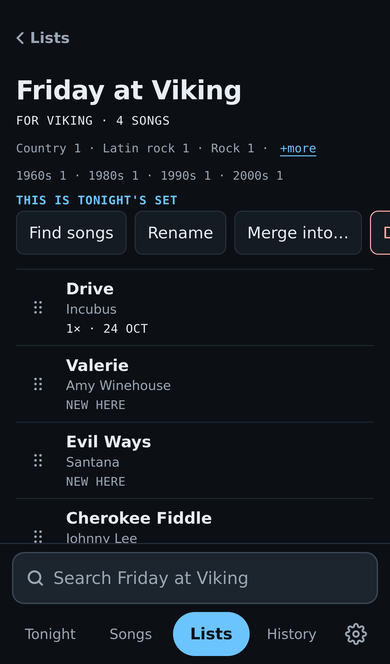
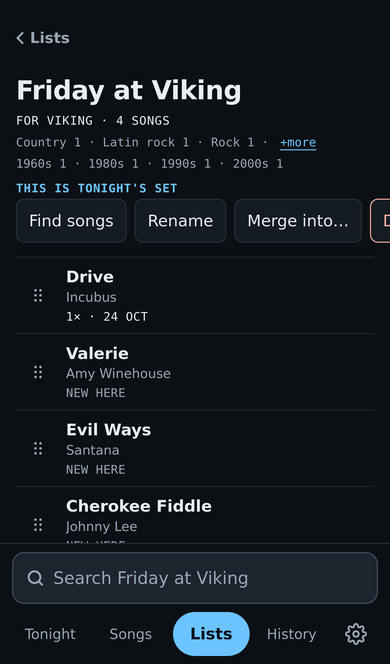
The folded genre and decade lines sit at text height, as tight as the label line above them: each “+more” keeps its 44 px box by reaching away from the other line, the genre link up over the label line and the decade link down over the “in tonight’s set” line, so the boxes never meet and neither lin

diff --git a/css/app.css b/css/app.css
@@ -1679,21 +1679,32 @@ body[data-screen="kj"] main { padding: 0; max-width: none; }
    them back). While a line has one, it makes room for the target above and
    below, so the two lines' targets never overlap. */
 .list-head .list-mix.folds { padding: 14px 0; overflow: visible; }
-/* Folded, a mix line is one line: the counts cut off with an ellipsis and
-   "+more" sits at the end, its 44 px box centred on a 30 px line, so the two
-   lines' boxes meet only in the gap between the lines, under neither text.
-   Unfolded it wraps. */
+/* Folded, a mix line is one line at text height: the counts cut off with an
+   ellipsis and "+more" sits at the end. Its 44 px box cannot be centred on
+   an 18 px line without meeting the other line's box, so the genre line's
+   box reaches up over the label line and the decade line's reaches down over
+   the "in tonight's set" line, neither of which is tappable; the text of
+   each stays on its own line. (A 44 px, then a 30 px, line read as a blank
+   line under it, 2026-11-16.) Unfolded a line wraps. */
 .list-head .list-mix.folds:not(.open) {
   display: flex;
-  align-items: center;
-  min-height: 30px; /* near text height: a 44 px line read as a blank line under it (2026-11-16) */
+  align-items: flex-start;
   padding: 0;
+  line-height: 18px; /* fixed, so the link's reach below can be exact */
   white-space: nowrap;
-  overflow: visible; /* the counts clip inside .mix-text; the 44 px link box may stand above and below the line */
+  overflow: visible; /* the counts clip inside .mix-text; the link box stands outside the line */
 }
 .list-head .list-mix.folds:not(.open) .mix-text { flex: 0 1 auto; min-width: 0; overflow: hidden; text-overflow: ellipsis; } /* +more follows the text, which gives way when long */
 .list-head .list-mix.folds:not(.open) .mix-sep { flex: none; white-space: pre; }
-.list-head .list-mix.folds:not(.open) .mix-more { flex: none; margin: -7px 0; } /* its 44 px box sits in 30 px of line */
+.list-head .list-mix.folds:not(.open) .mix-more {
+  flex: none;
+  box-sizing: border-box;
+  height: var(--tap);
+  line-height: inherit;
+  margin: 0;
+}
+.list-head .mix-genre.folds:not(.open) .mix-more { margin-top: calc(18px - var(--tap)); padding-top: calc(var(--tap) - 18px); }
+.list-head .mix-decade.folds:not(.open) .mix-more { margin-bottom: calc(18px - var(--tap)); padding-bottom: calc(var(--tap) - 18px); }
 .mix-more {
   position: relative; /* holds the screen-reader words */
   display: inline-block;

diff --git a/js/views/setlists.js b/js/views/setlists.js
@@ -97,7 +97,7 @@ function foldingMix(max, noun) {
   const label = el('span');
   const named = el('span', { class: 'visually-hidden' });
   const more = el('button', { type: 'button', class: 'mix-more', 'aria-expanded': 'false' }, label, named);
-  const line = el('p', { class: 'list-mix mix-line' }, text, sep, more);
+  const line = el('p', { class: `list-mix mix-line mix-${noun}` }, text, sep, more); // mix-genre / mix-decade: the CSS aims each "+more" box away from the other line
   let items = [];
   let open = false;
   function draw() {

diff --git a/sw.js b/sw.js
@@ -4,7 +4,7 @@
 // add every new app file to APP_SHELL. Otherwise installed copies keep serving
 // the old files, or fail offline when a module is missing from the cache.
 
-const CACHE_VERSION = 'v55';
+const CACHE_VERSION = 'v56';
 const CACHE_NAME = `mic-jaunt-${CACHE_VERSION}`;
 
 // Paths are relative so the app also works from a sub-folder (e.g. GitHub Pages).
